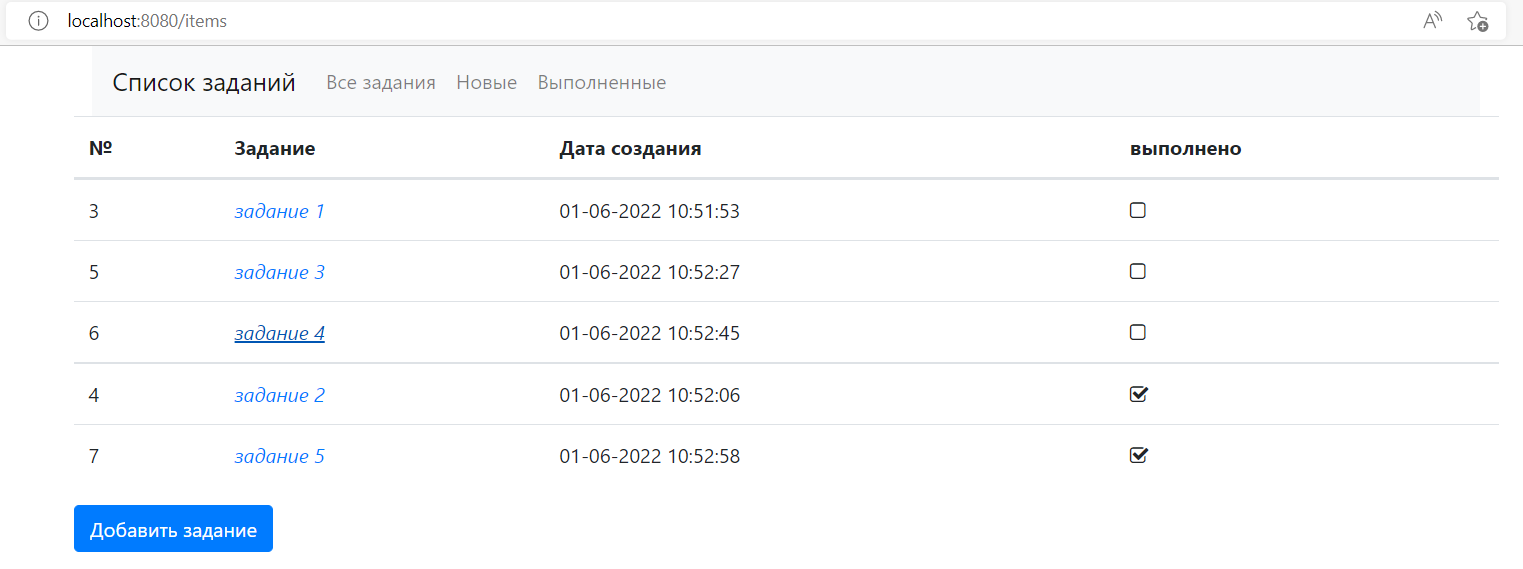
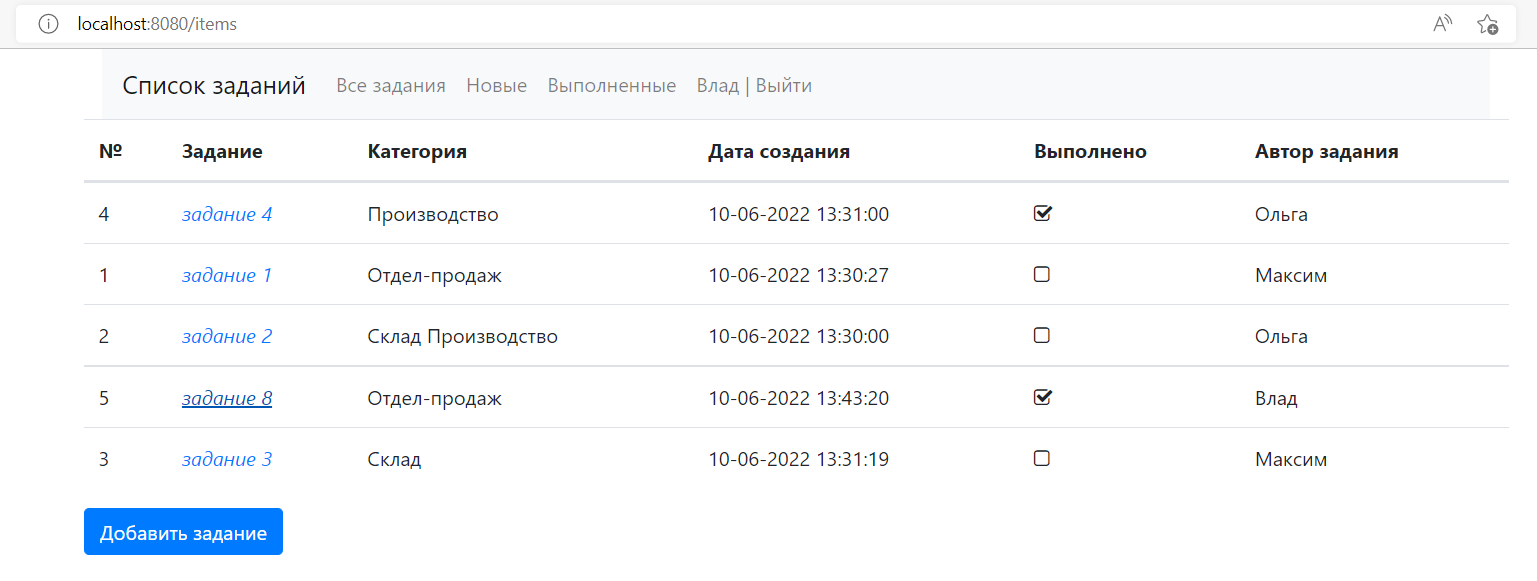
Категории в TODO List

diff --git a/src/main/resources/templates/updateItem.html b/src/main/resources/templates/updateItem.html
@@ -43,8 +43,32 @@
     </nav>
     <div class="row">
         <div class="card" style="width: 100%">
+                    <div class="card-header">
+                        <table class="table">
+                            <thead>
+                            <tr>
+                                <th scope="col"><small>№</small></th>
+                                <th scope="col"><small>Категория</small></th>
+                                <th scope="col"><small>Дата создания</small></th>
+                                <th scope="col"><small>Выполнено</small></th>
+                                <th scope="col"><small>Автор задания</small></th>
+                            </tr>
+                            </thead>
+                            <tbody>
+                                <td th:text="${item.id}"/>
+                                <td>
+                                    <span th:each="category: ${item.getCategories()}" th:text="${category.name} + ' ' + ' ' "></span>
+                                </td>
+                                <td th:text="${#temporals.format(item.created, 'dd-MM-yyyy HH:mm:ss')}"/>
+                                <td th:if="${item.done}">Выполнено</td>
+                                <td th:if="${!item.done}">Не выполнено</td>
+                                <td th:text="${item.user.name}"/>
+                            </tbody>
+                        </table>
+                        </table>
+                    </div>
             <div class="card-header">
-                Введите новые данные
+               <h6> Введите новые данные </h6>
             </div>
             <div class="card-body">
                 <form th:action="@{/updateItem}" method="POST" th:object="${item}">
@@ -57,10 +81,22 @@
                             <input type="text" class="form-control" size="30" name="name" id="name" th:field="*{name}">
                         </label>
                     </div>
+                    <br>
                     <div class="form-group">
                         <label>Подробное описание задания:</label>
                         <input type="text" class="form-control" name="description" id="description"
                                th:field="*{description}">
+                    </div>
+                    <div class="form-group">
+                        <label for="category.id">Категории:
+                            <select class="form-control" id="category.id" name="categoryId" multiple="multiple"
+                                    size="3">
+                                <option th:each="category : ${categories}" th:value="${category.id}"
+                                        th:text="${category.name}"></option>
+                            </select>
+                        </label>
+                        <p><small>выбор нескольких категорий находящихся рядом выделяются курсором или с кнопкой Shift,
+                            категории находящиеся не рядом выделяются c кнопкой Ctrl</small></p>
                     </div>
                     <button type="submit" class="btn btn-primary">Сохранить</button>
                 </form>

diff --git a/src/main/resources/templates/addItem.html b/src/main/resources/templates/addItem.html
@@ -59,6 +59,17 @@
                         <label>Подробное описание задания:</label>
                         <input type="text" class="form-control" name="description" id="description">
                     </div>
+                    <div class="form-group">
+                        <label for="category.id">Категории:
+                            <select class="form-control" id="category.id" name="categoryId" multiple="multiple"
+                                    size="3">
+                                <option th:each="category : ${categories}" th:value="${category.id}"
+                                        th:text="${category.name}"></option>
+                            </select>
+                        </label>
+                        <p><small>выбор нескольких категорий находящихся рядом выделяются курсором или с кнопкой Shift,
+                            категории находящиеся не рядом выделяются c кнопкой Ctrl</small></p>
+                    </div>
                     <button type="submit" class="btn btn-primary">Сохранить</button>
                 </form>
             </div>

diff --git a/src/main/resources/templates/items.html b/src/main/resources/templates/items.html
@@ -1,5 +1,5 @@
 <!doctype html>
-<html lang="en">
+<html xmlns:th="http://www.thymeleaf.org" lang="en">
 <head>
     <!-- Required meta tags -->
     <meta charset="utf-8">
@@ -52,6 +52,7 @@
             <tr>
                 <th scope="col">№</th>
                 <th scope="col">Задание</th>
+                <th scope="col">Категория</th>
                 <th scope="col">Дата создания</th>
                 <th scope="col">Выполнено</th>
                 <th scope="col">Автор задания</th>
@@ -64,6 +65,9 @@
                 <a th:href="@{|/formDescriptionItem/${item.id}|}">
                     <i th:text="${item.name}"></i>
                 </a>
+                </td>
+                <td>
+                   <span th:each="category: ${item.getCategories()}" th:text="${category.name} + ' ' "></span>
                 </td>
                 <td th:text="${#temporals.format(item.created, 'dd-MM-yyyy HH:mm:ss')}"/>
                 <td>

diff --git a/src/main/resources/templates/descriptionItem.html b/src/main/resources/templates/descriptionItem.html
@@ -55,6 +55,10 @@
                         <td th:text="${item.name}"/>
                     </tr>
                     <tr>
+                        <td>Категория</td>
+                        <td th:each="category: ${item.getCategories()}" th:text="${category.name}"></td>
+                    </tr>
+                    <tr>
                         <td>Дата создания</td>
                         <td th:text="${#temporals.format(item.created, 'dd-MM-yyyy HH:mm:ss')}"/>
                     </tr>

diff --git a/src/main/java/ru/job4j/todo/control/ItemController.java b/src/main/java/ru/job4j/todo/control/ItemController.java
@@ -2,22 +2,23 @@ package ru.job4j.todo.control;
 
 import org.springframework.stereotype.Controller;
 import org.springframework.ui.Model;
-import org.springframework.web.bind.annotation.GetMapping;
-import org.springframework.web.bind.annotation.ModelAttribute;
-import org.springframework.web.bind.annotation.PathVariable;
-import org.springframework.web.bind.annotation.PostMapping;
+import org.springframework.web.bind.annotation.*;
 import ru.job4j.todo.model.Item;
 import ru.job4j.todo.model.User;
+import ru.job4j.todo.service.CategoryService;
 import ru.job4j.todo.service.ItemService;
 
 import javax.servlet.http.HttpSession;
+import java.util.List;
 
 @Controller
 public class ItemController {
     private final ItemService itemService;
+    private final CategoryService categoryService;
 
-    public ItemController(ItemService itemService) {
+    public ItemController(ItemService itemService, CategoryService categoryService) {
         this.itemService = itemService;
+        this.categoryService = categoryService;
     }
 
     @GetMapping("/items")
@@ -34,13 +35,16 @@ public class ItemController {
 
     @GetMapping("/formAddItem")
     public String addItem(@ModelAttribute Item item, Model model, HttpSession session) {
-         User user = (User) session.getAttribute("user");
-         model.addAttribute("user", user);
+        User user = (User) session.getAttribute("user");
+        model.addAttribute("user", user);
+        model.addAttribute("categories", categoryService.findAll());
         return "addItem";
     }
 
     @PostMapping("/createItem")
-    public String createItem(@ModelAttribute Item item) {
+    public String createItem(@ModelAttribute Item item,
+                             @RequestParam("categoryId") List<Integer> listId) {
+        listId.forEach(id -> item.addCategory(categoryService.findById(id)));
         itemService.add(item);
         return "redirect:/items";
     }
@@ -78,11 +82,14 @@ public class ItemController {
         model.addAttribute("user", user);
         Item item = itemService.findById(id);
         model.addAttribute("item", item);
+        model.addAttribute("categories", categoryService.findAll());
         return "updateItem";
     }
 
     @PostMapping("/updateItem")
-    public String updateItem(@ModelAttribute Item item) {
+    public String updateItem(@ModelAttribute Item item,
+                             @RequestParam("categoryId") List<Integer> listId) {
+        listId.forEach(id -> item.addCategory(categoryService.findById(id)));
         itemService.update(item);
         return "redirect:/items";
     }

diff --git a/src/main/java/ru/job4j/todo/persistence/CategoryStore.java b/src/main/java/ru/job4j/todo/persistence/CategoryStore.java
@@ -1,0 +1,44 @@
+package ru.job4j.todo.persistence;
+
+import org.hibernate.Session;
+import org.hibernate.SessionFactory;
+import org.hibernate.Transaction;
+import org.springframework.stereotype.Repository;
+import ru.job4j.todo.model.Category;
+
+import java.util.Collection;
+import java.util.function.Function;
+
+@Repository
+public class CategoryStore {
+    private final SessionFactory sf;
+
+    public CategoryStore(SessionFactory sf) {
+        this.sf = sf;
+    }
+
+    private <T> T tx(final Function<Session, T> command) {
+        final Session session = sf.openSession();
+        final Transaction tx = session.beginTransaction();
+        try {
+            T rsl = command.apply(session);
+            tx.commit();
+            return rsl;
+        } catch (final Exception e) {
+            session.getTransaction().rollback();
+            throw e;
+        } finally {
+            session.close();
+        }
+    }
+
+    public Category findById(int id) {
+        return tx(session -> session.get(Category.class, id));
+    }
+
+    public Collection findAll() {
+        return tx(session -> session.createQuery(
+                "from Category").list()
+        );
+    }
+}

diff --git a/src/main/java/ru/job4j/todo/persistence/ItemStore.java b/src/main/java/ru/job4j/todo/persistence/ItemStore.java
@@ -38,24 +38,27 @@ public class ItemStore {
     }
 
     public Item findById(int id) {
-       return tx(session -> session.get(Item.class, id));
+       return tx(session -> (Item) session.createQuery(
+               "select distinct s from Item s join fetch s.categories where s.id = :fId")
+                       .setParameter("fId", id).uniqueResult()
+               );
     }
 
     public List findAll() {
         return tx(session -> session.createQuery(
-                "from Item").list()
+             "select distinct s from Item s join fetch s.categories").list()
         );
     }
 
     public List findAllDone() {
         return tx(session -> session.createQuery(
-                "from Item where done = true").list()
+                "select distinct s from Item s join fetch s.categories where s.done = true").list()
         );
     }
 
     public List findAllNotDone() {
         return tx(session -> session.createQuery(
-                "from Item where done = false").list()
+                "select distinct s from Item s join fetch s.categories where s.done = false").list()
         );
     }
 

diff --git a/src/main/java/ru/job4j/todo/model/Category.java b/src/main/java/ru/job4j/todo/model/Category.java
@@ -1,0 +1,52 @@
+package ru.job4j.todo.model;
+
+import javax.persistence.*;
+import java.util.Objects;
+
+@Entity
+@Table(name = "categories")
+public class Category {
+    @Id
+    @GeneratedValue(strategy = GenerationType.IDENTITY)
+    private int id;
+    private String name;
+
+    public static Category of(String name) {
+        Category category = new Category();
+        category.name = name;
+        return category;
+    }
+
+    public int getId() {
+        return id;
+    }
+
+    public void setId(int id) {
+        this.id = id;
+    }
+
+    public String getName() {
+        return name;
+    }
+
+    public void setName(String name) {
+        this.name = name;
+    }
+
+    @Override
+    public boolean equals(Object o) {
+        if (this == o) {
+            return true;
+        }
+        if (o == null || getClass() != o.getClass()) {
+            return false;
+        }
+        Category category = (Category) o;
+        return Objects.equals(getId(), category.getId());
+    }
+
+    @Override
+    public int hashCode() {
+        return Objects.hash(getId());
+    }
+}

diff --git a/src/main/java/ru/job4j/todo/model/Item.java b/src/main/java/ru/job4j/todo/model/Item.java
@@ -2,7 +2,9 @@ package ru.job4j.todo.model;
 
 import javax.persistence.*;
 import java.time.LocalDateTime;
+import java.util.HashSet;
 import java.util.Objects;
+import java.util.Set;
 
 @Entity
 @Table(name = "items")
@@ -18,7 +20,11 @@ public class Item {
     @JoinColumn(name = "user_id")
     private User user;
 
-    public Item() {
+    @ManyToMany(cascade = {CascadeType.PERSIST, CascadeType.MERGE})
+    private Set<Category> categories = new HashSet<>();
+
+    public void addCategory(Category category) {
+        this.categories.add(category);
     }
 
     public Item of(int id, String name, String description, LocalDateTime created, boolean done) {
@@ -77,6 +83,14 @@ public class Item {
 
     public void setUser(User user) {
         this.user = user;
+    }
+
+    public Set<Category> getCategories() {
+        return categories;
+    }
+
+    public void setCategories(Set<Category> categories) {
+        this.categories = categories;
     }
 
     @Override

diff --git a/src/main/java/ru/job4j/todo/service/CategoryService.java b/src/main/java/ru/job4j/todo/service/CategoryService.java
@@ -1,0 +1,24 @@
+package ru.job4j.todo.service;
+
+import org.springframework.stereotype.Service;
+import ru.job4j.todo.model.Category;
+import ru.job4j.todo.persistence.CategoryStore;
+
+import java.util.Collection;
+
+@Service
+public class CategoryService {
+    private final CategoryStore categoryStore;
+
+    public CategoryService(CategoryStore categoryStore) {
+        this.categoryStore = categoryStore;
+    }
+
+    public Category findById(int id) {
+        return categoryStore.findById(id);
+    }
+
+    public Collection findAll() {
+        return categoryStore.findAll();
+    }
+}
